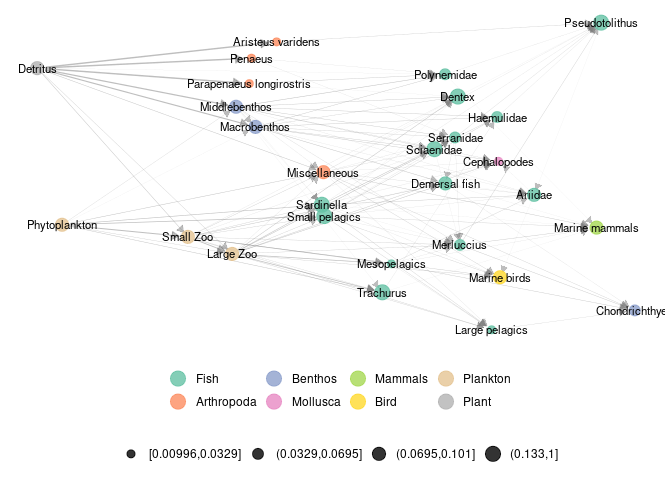
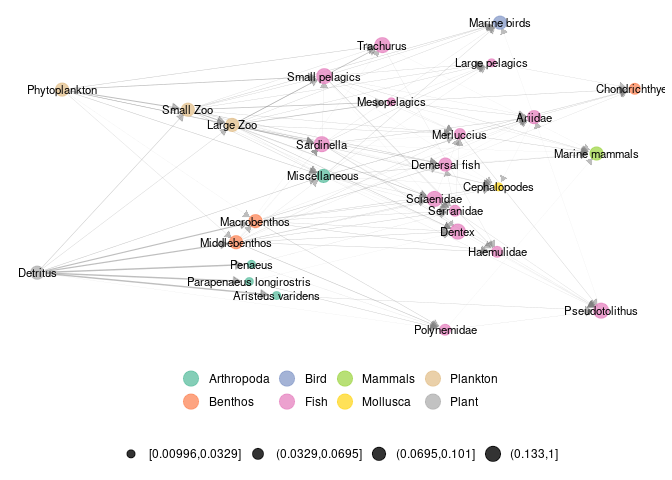
add map to README

diff --git a/README.md b/README.md
@@ -59,6 +59,10 @@ ggmetanet(meta_angola,beta = 0.05,legend = "Phylum")
 
 ![](man/figures/unnamed-chunk-4-1.png)<!-- -->
 
+## ‘metanetwork’ map
+
+<img src="man/figures/metanetwork_map.png" title="A caption" alt="A caption" width="50%" />
+
 ## Authors
 
 This package is currently developed by Marc Ohlmann from Laboratoire
